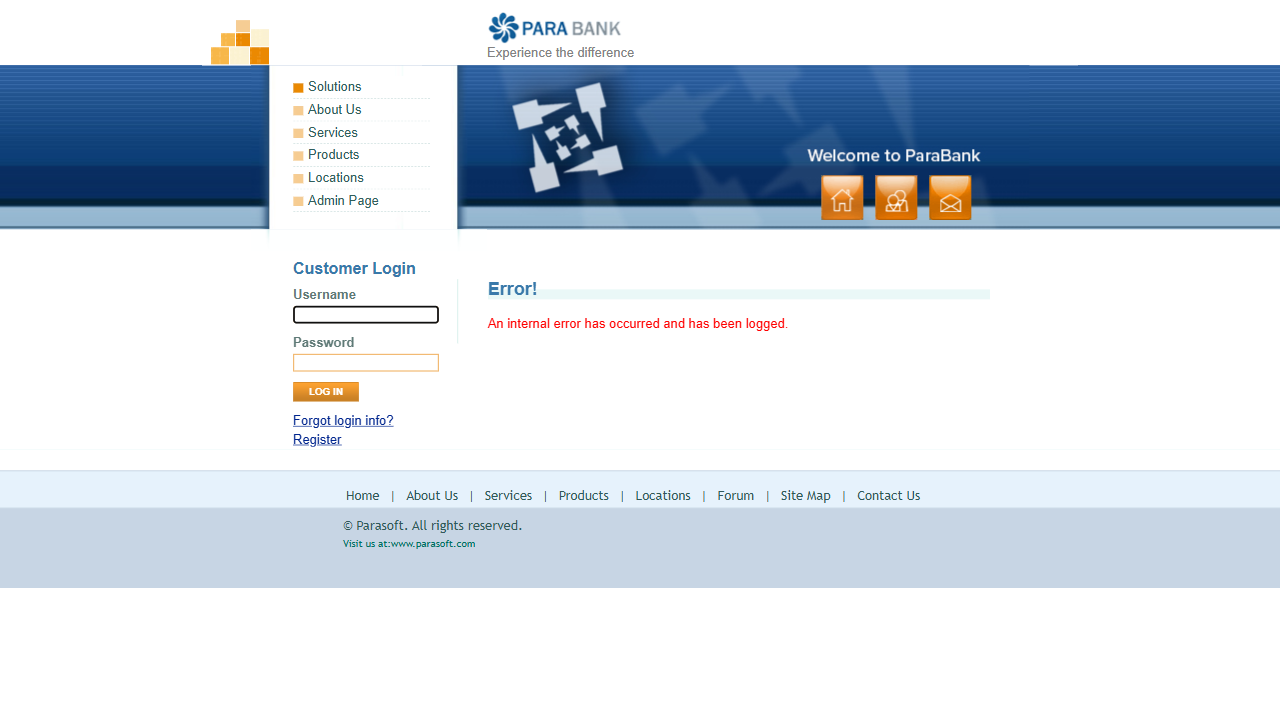
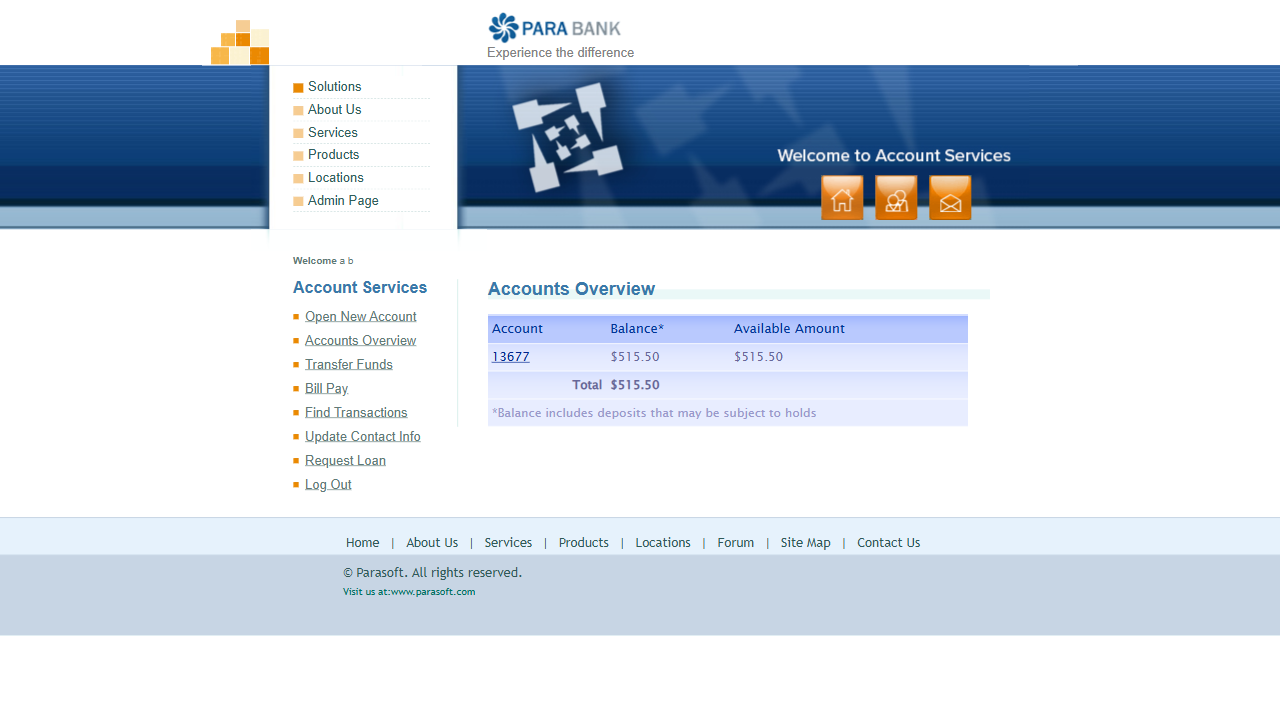
updated tests

Changed region(s): [[0.0, 0.3361, 1.0, 0.8861], [0.375, 0.3972, 0.7812, 0.5806], [0.5938, 0.1833, 0.7812, 0.2444]]

diff --git a/tests/findTransactions.spec.js b/tests/findTransactions.spec.js
@@ -16,8 +16,7 @@ const expectResultVisible =async (findTransactionsPage) => {
 // 1. SEARCH BY VALID TRANSACTION ID
 // ======================================================
 
-test('@smoke Search By Transaction ID',
-async ({ findTransactionsPage }) => {
+test('@smoke Search By Transaction ID',async ({ findTransactionsPage }) => {
 
     await findTransactionsPage.open();
 
@@ -32,8 +31,7 @@ async ({ findTransactionsPage }) => {
 // 2. INVALID TRANSACTION ID
 // ======================================================
 
-test('@negative Invalid Transaction ID',
-async ({ findTransactionsPage }) => {
+test('@negative Invalid Transaction ID', async ({ findTransactionsPage }) => {
 
     await findTransactionsPage.open();
 
@@ -48,8 +46,7 @@ async ({ findTransactionsPage }) => {
 // 3. SEARCH BY DATE
 // ======================================================
 
-test('@smoke Search By Date',
-async ({ findTransactionsPage }) => {
+test('@smoke Search By Date',async ({ findTransactionsPage }) => {
 
     await findTransactionsPage.open();
 
@@ -62,8 +59,7 @@ async ({ findTransactionsPage }) => {
 // 4. INVALID DATE FORMAT
 // ======================================================
 
-test('@negative Invalid Date',
-async ({ findTransactionsPage }) => {
+test('@negative Invalid Date',async ({ findTransactionsPage }) => {
 
     await findTransactionsPage.open();
 
@@ -78,8 +74,7 @@ async ({ findTransactionsPage }) => {
 // 5. SEARCH BY AMOUNT
 // ======================================================
 
-test('@smoke Search By Amount',
-async ({ findTransactionsPage }) => {
+test('@smoke Search By Amount',async ({ findTransactionsPage }) => {
 
     await findTransactionsPage.open();
 
@@ -94,8 +89,7 @@ async ({ findTransactionsPage }) => {
 // 6. INVALID AMOUNT
 // ======================================================
 
-test('@negative Invalid Amount',
-async ({ findTransactionsPage }) => {
+test('@negative Invalid Amount',async ({ findTransactionsPage }) => {
 
     await findTransactionsPage.open();
 
@@ -110,8 +104,7 @@ async ({ findTransactionsPage }) => {
 // 7. EMPTY SEARCH
 // ======================================================
 
-test('@negative Empty Search',
-async ({ findTransactionsPage }) => {
+test('@negative Empty Search',async ({ findTransactionsPage }) => {
 
     await findTransactionsPage.open();
 
@@ -126,8 +119,7 @@ async ({ findTransactionsPage }) => {
 // 8. UI VALIDATION
 // ======================================================
 
-test('@ui UI Validation',
-async ({ findTransactionsPage }) => {
+test('@ui UI Validation',async ({ findTransactionsPage }) => {
 
     await findTransactionsPage.open();
 
@@ -142,9 +134,7 @@ async ({ findTransactionsPage }) => {
 // 9. TRANSACTION TABLE VALIDATION
 // ======================================================
 
-test('@regression Transaction Table Validation',
-
-async ({ findTransactionsPage }) => {
+test('@regression Transaction Table Validation',async ({ findTransactionsPage }) => {
 
     await findTransactionsPage.open();
 
@@ -159,8 +149,7 @@ async ({ findTransactionsPage }) => {
 // 10. NAVIGATION VALIDATION
 // ======================================================
 
-test('@smoke Navigation Validation',
-async ({ findTransactionsPage }) => {
+test('@smoke Navigation Validation',async ({ findTransactionsPage }) => {
 
     await findTransactionsPage.open();
 
@@ -173,8 +162,7 @@ async ({ findTransactionsPage }) => {
 // 11. SESSION VALIDATION
 // ======================================================
 
-test('@regression Session Validation',
-async ({ findTransactionsPage }) => {
+test('@regression Session Validation',async ({ findTransactionsPage }) => {
 
     await findTransactionsPage.open();
 
@@ -188,8 +176,7 @@ async ({ findTransactionsPage }) => {
 // 12. MULTIPLE SEARCH
 // ======================================================
 
-test('@regression Multiple Search',
-async ({ findTransactionsPage }) => {
+test('@regression Multiple Search',async ({ findTransactionsPage }) => {
 
     await findTransactionsPage.open();
 
@@ -208,8 +195,7 @@ async ({ findTransactionsPage }) => {
 // 13. STEP VALIDATION
 // ======================================================
 
-test('@smoke Step Validation',
-async ({ findTransactionsPage }) => {
+test('@smoke Step Validation',async ({ findTransactionsPage }) => {
 
     await test.step('Open Page', async () => {
 
@@ -234,8 +220,7 @@ async ({ findTransactionsPage }) => {
 // 14. TIMEOUT VALIDATION
 // ======================================================
 
-test('@regression Timeout Validation',
-async ({ findTransactionsPage }) => {
+test('@regression Timeout Validation',async ({ findTransactionsPage }) => {
 
     test.setTimeout(60000);
 
@@ -252,12 +237,26 @@ async ({ findTransactionsPage }) => {
 // 15. FIXME
 // ======================================================
 
-test.fixme(
-'@fixme Backend Issue Validation',
-
-async ({ findTransactionsPage }) => {
+test.fixme('@fixme Backend Issue Validation',async ({ findTransactionsPage }) => {
 
     await findTransactionsPage.open();
 
     await findTransactionsPage.searchByAmount('999999');
+});
+
+// ======================================================
+// 16. PAGE REFRESH VALIDATION
+// ======================================================
+
+test('@regression Page Refresh Validation',async ({ findTransactionsPage }) => {
+
+    await findTransactionsPage.open();
+
+    await findTransactionsPage.page.reload();
+
+    await expect(  findTransactionsPage.transactionIdInput ).toBeVisible();
+
+    await expect.soft( findTransactionsPage.dateInput ).toBeVisible();
+
+    await expect.soft( findTransactionsPage.amountInput ).toBeVisible();
 });

diff --git a/tests/authentication.spec.js b/tests/authentication.spec.js
@@ -55,45 +55,49 @@ test.describe('Authentication Module', () => {
         await expect(page).toHaveURL(/overview/);
     });
 
-    // =====================================================
-    // TC02 - INVALID USERNAME
-    // =====================================================
+   // =====================================================
+// TC02 - INVALID USERNAME
+// =====================================================
+   
+test('TC02 - Invalid Username', async ({ page }) => {
 
-    test('TC02 - Invalid Username', async ({ page }) => {
+    const login = new LoginPage(page);
 
-        const login = new LoginPage(page);
+    await login.login(
+        loginData.invalidUsername.username,
+        loginData.invalidUsername.password
+    );
 
-        await login.login(
+    await expect(login.errorMessage) .toBeVisible({ timeout: 10000 });
 
-            loginData.invalidUsername.username,
+    await expect(login.errorMessage) .toContainText('could not be verified');
+});
 
-            loginData.invalidUsername.password
-        );
 
-        await expect(login.errorMessage)
-            .toContainText('could not be verified');
-    });
 
-    // =====================================================
-    // TC03 - INVALID PASSWORD
-    // =====================================================
 
-    test('TC03 - Invalid Password', async ({ page }) => {
 
-        const login = new LoginPage(page);
 
-        await login.login(
 
-            loginData.invalidPassword.username,
+// =====================================================
+// TC03 - INVALID PASSWORD
+// =====================================================
+     
+   test('TC03 - Invalid Password', async ({ page }) => {
 
-            loginData.invalidPassword.password
-        );
+    const login = new LoginPage(page);
 
-        await expect(login.errorMessage)
-            .toContainText('could not be verified');
-    });
+    await login.login(
+        loginData.invalidPassword.username,
+        loginData.invalidPassword.password
+    );
 
-    // =====================================================
+    await expect(login.errorMessage)  .toBeVisible({ timeout: 10000 });
+
+    await expect(login.errorMessage) .toContainText('could not be verified');
+});
+
+ // =====================================================
     // TC04 - EMPTY USERNAME
     // =====================================================
 

diff --git a/tests/accountServices.spec.js b/tests/accountServices.spec.js
@@ -173,7 +173,7 @@ test.describe(
         // TC12 Password Enabled
         // =================================================
 
-        test.skip('TC12 - Password Enabled', async ({ page }) => {
+        test('TC12 - Password Enabled', async ({ page }) => {
 
                 const account = new AccountPage(page);
 